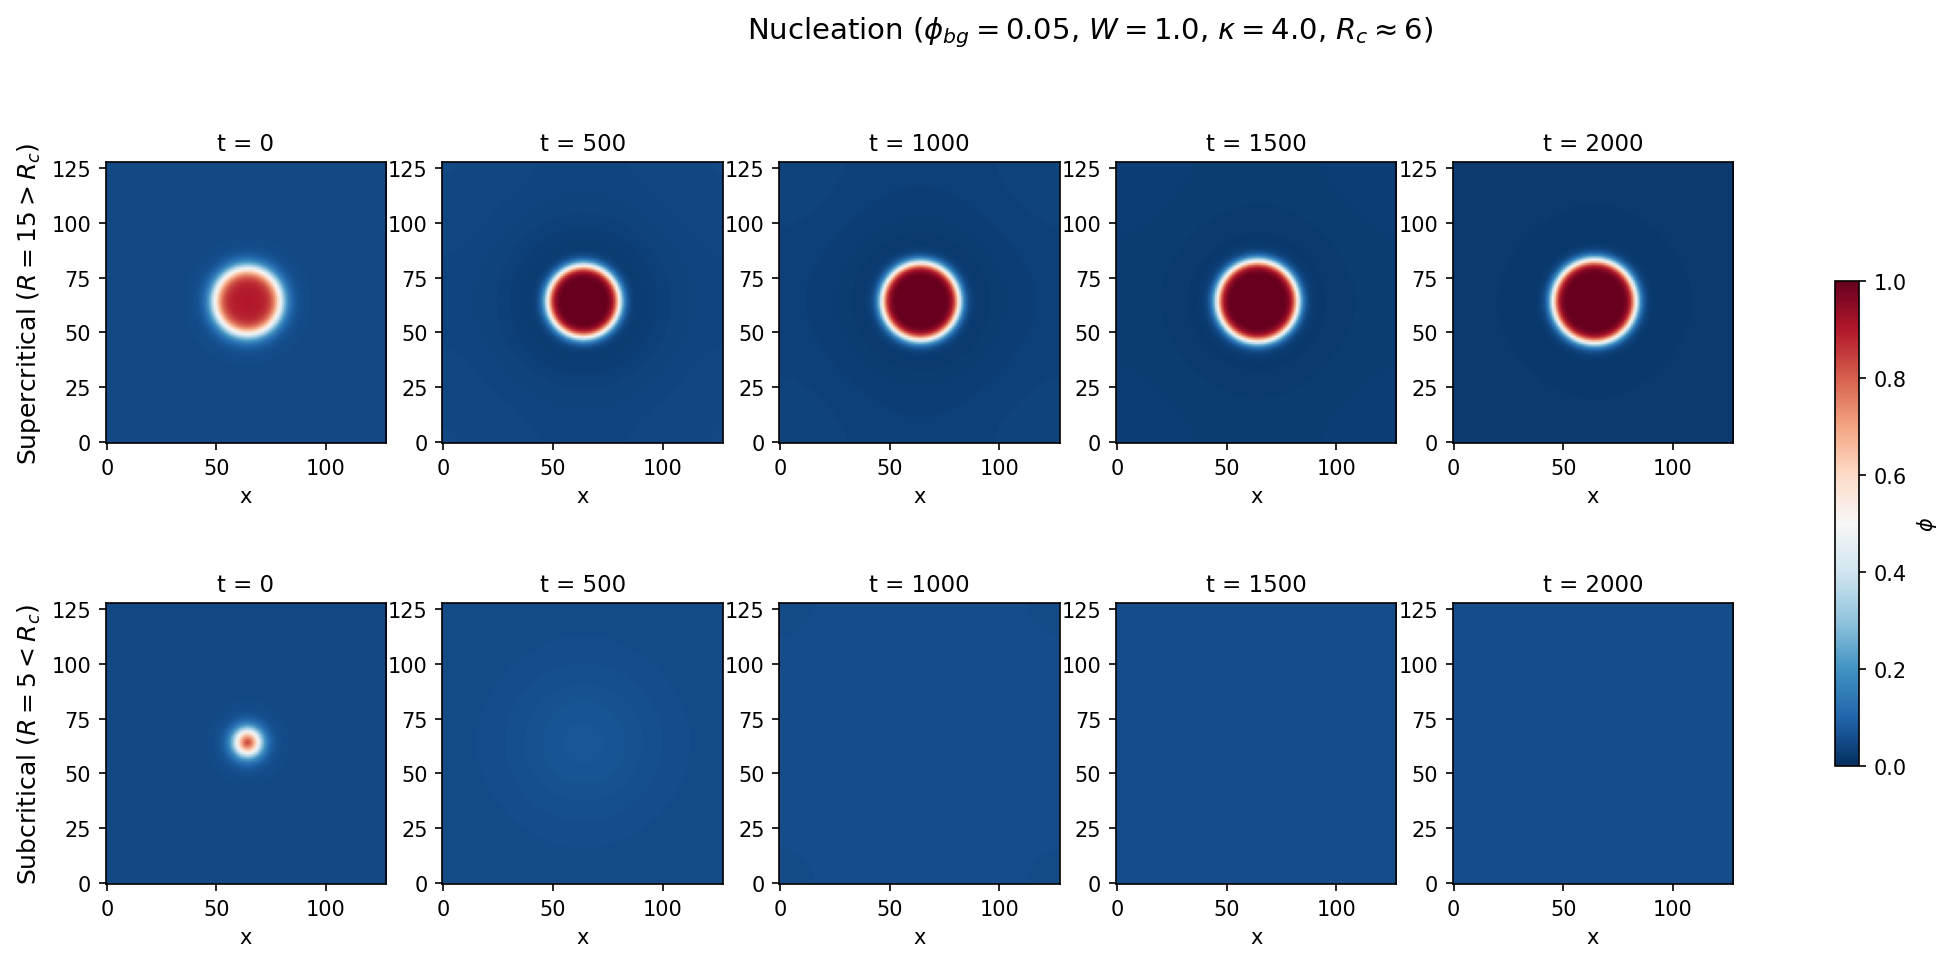
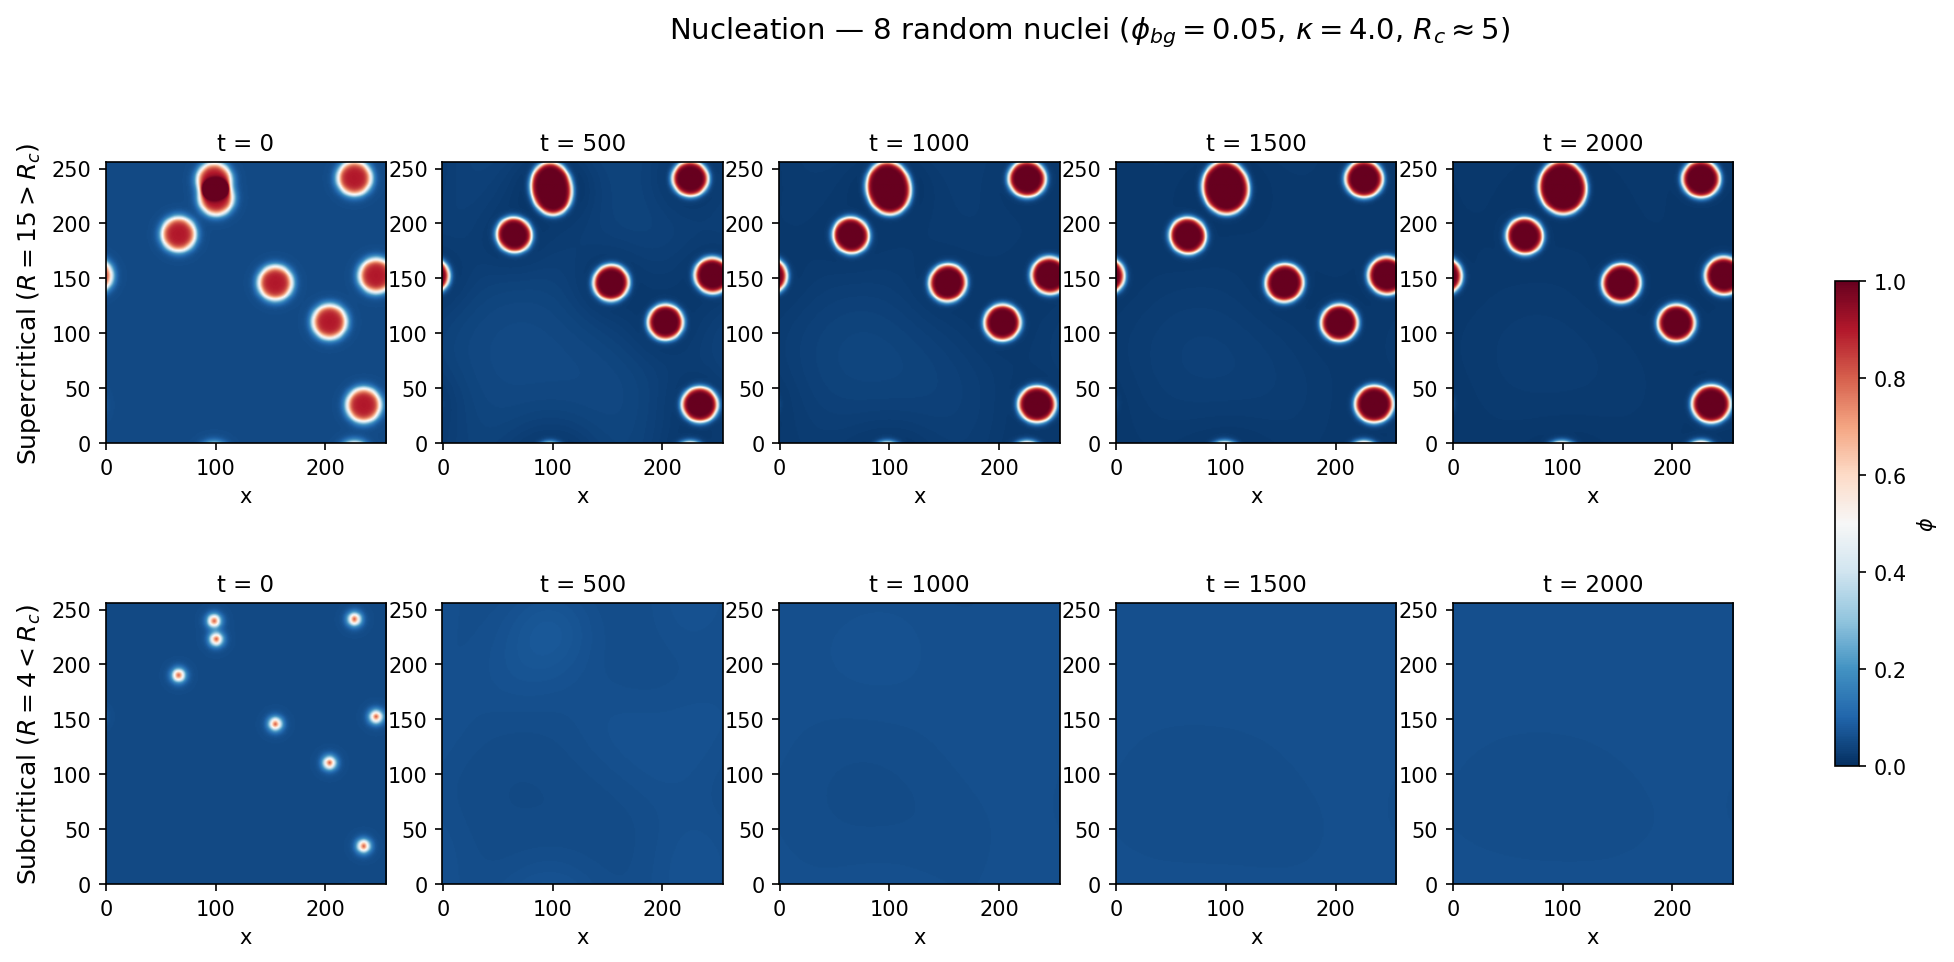
Add random_nuclei initializer and update nucleation example
- Add random_nuclei() to initializers.py: places multiple tanh-profiled
  droplets at random positions with periodic boundary conditions.
- Update nucleation.py to use 8 random nuclei on a 256×256 grid.
  Supercritical (R=15) grow and merge; subcritical (R=4) dissolve
  completely back to the uniform metastable state.

https://claude.ai/code/session_01FZAWaxF8waBSbutsaEw85i

diff --git a/examples/nucleation.py b/examples/nucleation.py
@@ -1,12 +1,13 @@
 """Nucleation and growth in a metastable polymer blend (2D).
 
 Demonstrates the classical nucleation scenario using a double-well
-free energy:
+free energy with multiple randomly placed nuclei:
 
 - Background φ = 0.05 sits in the metastable region (between equilibrium
   φ = 0 and spinodal φ ≈ 0.21 for the double-well).
-- Supercritical nucleus (R = 15 > R_c ≈ 6): grows into a stable new phase.
-- Subcritical nucleus (R = 5 < R_c ≈ 6): shrinks back to the metastable state.
+- Supercritical nuclei (R = 15 > R_c ≈ 5): grow and eventually merge.
+- Subcritical nuclei (R = 4 < R_c ≈ 5): dissolve back to the uniform
+  metastable state.
 
 For the double-well f(φ) = W φ²(1−φ)²:
 - Equilibria: φ = 0, 1
@@ -22,7 +23,7 @@ from torch_pf import (
     FreeEnergyFunctional,
     GridParams,
     SpectralSolver,
-    droplet,
+    random_nuclei,
 )
 
 
@@ -34,33 +35,34 @@ def main() -> None:
     dw = DoubleWell(W=1.0)
     kappa = 4.0
     functional = FreeEnergyFunctional(local=dw, kappa=kappa)
-    grid = GridParams(shape=(128, 128), dx=1.0, dt=0.1)
+    grid = GridParams(shape=(256, 256), dx=1.0, dt=0.1)
     solver = SpectralSolver(functional, grid, mobility=1.0, device=device)
 
-    # --- Two nuclei: super- and sub-critical ---
-    phi_bg = 0.05       # metastable background (between equil. 0 and spinodal 0.21)
+    # --- Multiple random nuclei: super- and sub-critical ---
+    phi_bg = 0.05       # metastable background
     phi_nuc = 0.9        # nucleus composition
-    R_super = 15         # > R_c ≈ 6  → grows
-    R_sub = 5            # < R_c ≈ 6  → shrinks
+    n_nuclei = 8
+    R_super = 15         # > R_c ≈ 5  → grows and merges
+    R_sub = 4            # < R_c ≈ 5  → dissolves
 
-    phi0_super = droplet(
+    phi0_super = random_nuclei(
         *grid.shape,
-        phi_inside=phi_nuc, phi_outside=phi_bg,
-        radius=R_super, device=device,
+        n_nuclei=n_nuclei, phi_background=phi_bg, phi_nucleus=phi_nuc,
+        radius=R_super, seed=42, device=device,
     )
-    phi0_sub = droplet(
+    phi0_sub = random_nuclei(
         *grid.shape,
-        phi_inside=phi_nuc, phi_outside=phi_bg,
-        radius=R_sub, device=device,
+        n_nuclei=n_nuclei, phi_background=phi_bg, phi_nucleus=phi_nuc,
+        radius=R_sub, seed=42, device=device,
     )
 
     n_steps = 20000
     save_interval = 5000
-    print(f"Running {n_steps} steps ...")
+    print(f"Running {n_steps} steps ({n_nuclei} nuclei each) ...")
 
-    print("  Supercritical nucleus ...")
+    print("  Supercritical nuclei ...")
     snaps_super = solver.run(phi0_super, n_steps=n_steps, save_interval=save_interval)
-    print("  Subcritical nucleus ...")
+    print("  Subcritical nuclei ...")
     snaps_sub = solver.run(phi0_sub, n_steps=n_steps, save_interval=save_interval)
 
     # --- Plot ---
@@ -83,8 +85,8 @@ def main() -> None:
 
     fig.colorbar(im, ax=axes, label=r"$\phi$", shrink=0.6)
     fig.suptitle(
-        rf"Nucleation ($\phi_{{bg}}={phi_bg}$, $W={dw.W}$, "
-        rf"$\kappa={kappa}$, $R_c \approx 6$)",
+        rf"Nucleation — {n_nuclei} random nuclei "
+        rf"($\phi_{{bg}}={phi_bg}$, $\kappa={kappa}$, $R_c \approx 5$)",
         fontsize=14,
     )
     plt.savefig("examples/results/nucleation.png", dpi=150, bbox_inches="tight")

diff --git a/src/torch_pf/initializers.py b/src/torch_pf/initializers.py
@@ -91,3 +91,77 @@ def droplet(
         1.0 - torch.tanh((r - radius) / interface_width)
     )
     return phi.clamp(1e-8, 1.0 - 1e-8)
+
+
+def random_nuclei(
+    *shape: int,
+    n_nuclei: int = 10,
+    phi_background: float = 0.05,
+    phi_nucleus: float = 0.9,
+    radius: float = 10.0,
+    interface_width: float = 4.0,
+    dx: float = 1.0,
+    seed: int | None = None,
+    device: torch.device | str = "cpu",
+) -> Tensor:
+    """Place multiple nuclei at random positions on a periodic domain.
+
+    Each nucleus is a tanh-profiled droplet.  Overlapping regions are
+    clamped to [0, 1].  Distances respect periodic boundary conditions.
+
+    Parameters
+    ----------
+    *shape : int
+        Grid dimensions, e.g. ``(128, 128)`` for 2D.
+    n_nuclei : int
+        Number of nuclei to place.
+    phi_background : float
+        Volume fraction of the metastable background.
+    phi_nucleus : float
+        Volume fraction at the centre of each nucleus.
+    radius : float
+        Radius of each nucleus (physical units).
+    interface_width : float
+        Width of the diffuse interface around each nucleus.
+    dx : float
+        Grid spacing.
+    seed : int or None
+        Random seed for reproducibility.
+    device : torch.device or str
+        Computation device.
+
+    Returns
+    -------
+    Tensor
+        Initial volume fraction field.
+    """
+    gen = torch.Generator(device="cpu")
+    if seed is not None:
+        gen.manual_seed(seed)
+
+    # Domain lengths in physical units
+    L = [n * dx for n in shape]
+
+    # Grid coordinates: [0, L)
+    coords = [torch.arange(n, device=device) * dx for n in shape]
+    grids = torch.meshgrid(*coords, indexing="ij")
+
+    # Random centre positions  (n_nuclei × ndim)
+    centres = [torch.rand(n_nuclei, generator=gen) * Li for Li in L]
+
+    phi = torch.full(shape, phi_background, device=device, dtype=torch.float32)
+    for i in range(n_nuclei):
+        # Minimum-image distance (periodic)
+        dist_sq = torch.zeros(shape, device=device)
+        for d, g in enumerate(grids):
+            diff = g - centres[d][i].to(device)
+            diff = diff - L[d] * torch.round(diff / L[d])
+            dist_sq = dist_sq + diff**2
+        r = dist_sq.sqrt()
+
+        bump = (phi_nucleus - phi_background) * 0.5 * (
+            1.0 - torch.tanh((r - radius) / interface_width)
+        )
+        phi = phi + bump
+
+    return phi.clamp(1e-8, 1.0 - 1e-8)

diff --git a/src/torch_pf/__init__.py b/src/torch_pf/__init__.py
@@ -1,7 +1,7 @@
 """torch-pf: Phase-field simulation for polymer systems using PyTorch."""
 
 from .free_energy import DoubleWell, FloryHuggins, FreeEnergyFunctional
-from .initializers import droplet, random_uniform
+from .initializers import droplet, random_nuclei, random_uniform
 from .solver import GridParams, SpectralSolver
 
 __all__ = [
@@ -11,5 +11,6 @@ __all__ = [
     "GridParams",
     "SpectralSolver",
     "droplet",
+    "random_nuclei",
     "random_uniform",
 ]
